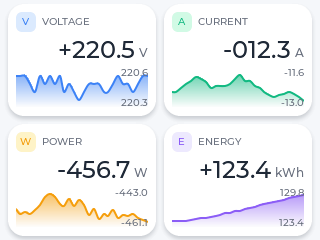
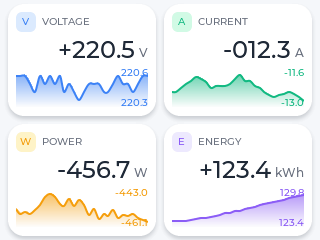
feat: color chart axis labels by series theme

diff --git a/tests/test_power_axis_labels.py b/tests/test_power_axis_labels.py
@@ -55,14 +55,14 @@ def load_png(path):
     return width, height, rows
 
 
-def muted_pixels(rows, box):
+def theme_pixels(rows, box, rgb):
     x1, y1, x2, y2 = box
     count = 0
     for y in range(y1, y2):
         row = rows[y]
         for x in range(x1, x2):
             r, g, b = row[x * 4:x * 4 + 3]
-            if abs(r - 0x6B) <= 18 and abs(g - 0x72) <= 18 and abs(b - 0x80) <= 18:
+            if max(abs(r - rgb[0]), abs(g - rgb[1]), abs(b - rgb[2])) <= 70:
                 count += 1
     return count
 
@@ -74,8 +74,10 @@ assert (w, h) == (320, 240), (w, h)
 # column is inside these four regions.
 regions = [(110, 65, 153, 110), (266, 65, 309, 110),
            (110, 185, 153, 230), (266, 185, 309, 230)]
-counts = [muted_pixels(rows, box) for box in regions]
-print('muted-pixel counts:', counts)
+theme_colors = [(0x3B, 0x82, 0xF6), (0x10, 0xB9, 0x81),
+                 (0xF5, 0x9E, 0x0B), (0x8B, 0x5C, 0xF6)]
+counts = [theme_pixels(rows, box, color) for box, color in zip(regions, theme_colors)]
+print('theme-color pixel counts:', counts)
 assert all(c >= 8 for c in counts), 'expected two visible axis numbers in every chart'
 
 # Layout regression: the chart must own the row height and the numeric axis
@@ -89,3 +91,6 @@ assert "lv_obj_add_flag(axis, LV_OBJ_FLAG_IGNORE_LAYOUT);" in source, "axis is s
 assert "lv_obj_set_width(axis, LV_PCT(100));" in source, "axis overlay is not full width"
 assert "lv_obj_set_style_text_align(max_label, LV_TEXT_ALIGN_RIGHT, 0);" in source
 assert "lv_obj_set_style_text_align(min_label, LV_TEXT_ALIGN_RIGHT, 0);" in source
+assert "add_axis_labels(chart_row, data, TREND_PTS, m->accent);" in source
+assert "lv_obj_set_style_text_color(max_label, color, 0);" in source
+assert "lv_obj_set_style_text_color(min_label, color, 0);" in source

diff --git a/src/ui.c b/src/ui.c
@@ -477,7 +477,7 @@ static void fmt_axis_value(int32_t raw, char *out, size_t n)
     lv_snprintf(out, n, "%c%d.%d", sign, (int)(value / 10), (int)(value % 10));
 }
 
-static void add_axis_labels(lv_obj_t *parent, const int32_t *data, uint32_t n)
+static void add_axis_labels(lv_obj_t *parent, const int32_t *data, uint32_t n, lv_color_t color)
 {
     int32_t mn = data[0];
     int32_t mx = data[0];
@@ -509,14 +509,14 @@ static void add_axis_labels(lv_obj_t *parent, const int32_t *data, uint32_t n)
     lv_obj_set_width(max_label, LV_PCT(100));
     lv_obj_set_style_text_align(max_label, LV_TEXT_ALIGN_RIGHT, 0);
     lv_obj_set_style_text_font(max_label, &lv_font_montserrat_10, 0);
-    lv_obj_set_style_text_color(max_label, COL_MUTED, 0);
+    lv_obj_set_style_text_color(max_label, color, 0);
 
     lv_obj_t *min_label = lv_label_create(axis);
     lv_label_set_text(min_label, min_buf);
     lv_obj_set_width(min_label, LV_PCT(100));
     lv_obj_set_style_text_align(min_label, LV_TEXT_ALIGN_RIGHT, 0);
     lv_obj_set_style_text_font(min_label, &lv_font_montserrat_10, 0);
-    lv_obj_set_style_text_color(min_label, COL_MUTED, 0);
+    lv_obj_set_style_text_color(min_label, color, 0);
 }
 
 static void add_sparkline(lv_obj_t *card, const meter_t *m, const int32_t *data)
@@ -530,7 +530,7 @@ static void add_sparkline(lv_obj_t *card, const meter_t *m, const int32_t *data)
                           LV_FLEX_ALIGN_CENTER, LV_FLEX_ALIGN_CENTER);
 
     add_gradient_area(chart_row, data, TREND_PTS, m->accent, 0, COL_GRID, COL_CARD);
-    add_axis_labels(chart_row, data, TREND_PTS);
+    add_axis_labels(chart_row, data, TREND_PTS, m->accent);
 }
 
 static void make_meter_card(lv_obj_t *parent, int x, int y, const meter_t *m)

diff --git a/README.md b/README.md
@@ -27,13 +27,13 @@ LVGL v9.5.0 + SDL2 · 双页面数据仪表盘
 
 ### 第一版：右侧保留紧凑数轴区域（默认）
 
-图表与数轴并排，右侧显示当前数据的最大值和最小值。
+图表与数轴并排，右侧显示当前数据的最大值和最小值；数轴文字使用对应趋势图的主题色。
 
 ![右侧紧凑数轴](docs/power_axis_side.png)
 
 ### 第二版：数轴文字叠加在 full-width 图表上
 
-图表保持完整宽度，最大值和最小值直接叠加在图表右侧。
+图表保持完整宽度，最大值和最小值直接叠加在图表右侧，并沿用对应趋势图的主题色。
 
 ![数轴叠加图表](docs/power_axis_overlay.png)
 
